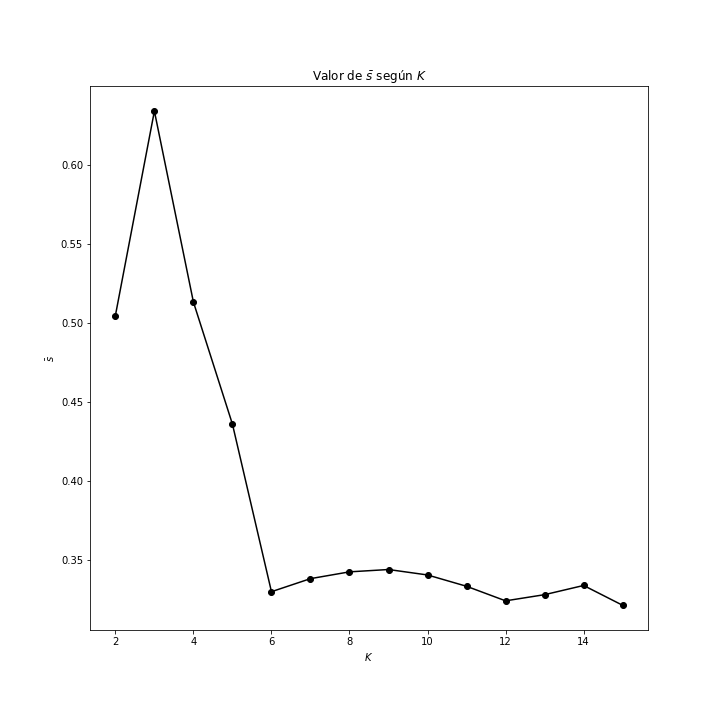
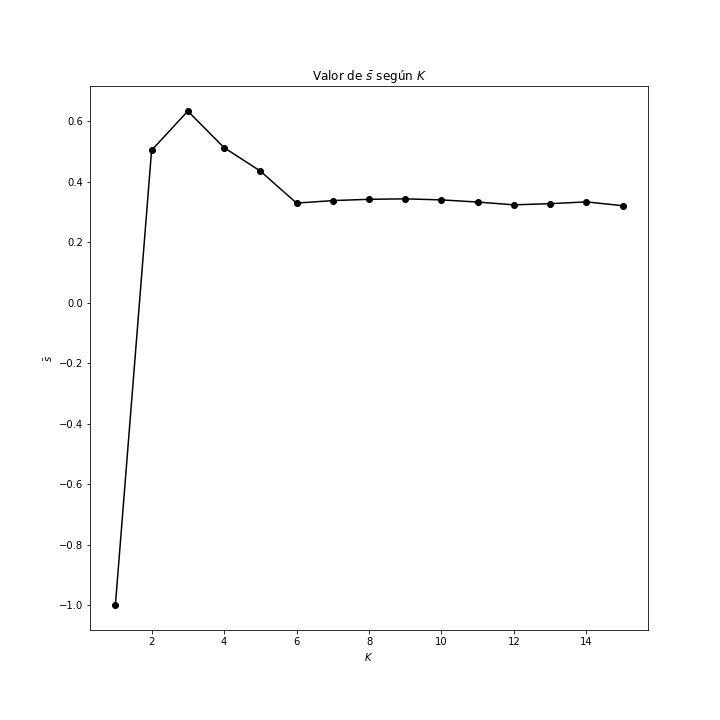
Práctica 3 terminada

diff --git a/Práctica 3/Práctica3.py b/Práctica 3/Práctica3.py
@@ -5,7 +5,7 @@ Práctica 3
 Rubén Ruperto Díaz y Rafael Herrera Troca
 '''
 
-from sklearn.cluster import KMeans
+from sklearn.cluster import KMeans, DBSCAN
 from sklearn import metrics
 from sklearn.datasets import make_blobs
 import os
@@ -24,27 +24,28 @@ os.chdir(ubica)
 # Definimos un sistema X de 1000 elementos de dos estados
 # construido a partir de una muestra aleatoria entorno a unos centros
 centers = [[1, 1], [-1, -1], [1, -1]]
+colors = ['magenta', 'blue', 'lime', 'red', 'silver', 'darkorange', 'gold', 'pink', 'cyan', 'green', 'rosybrown', 'sienna', 'lightcyan', 'yellow', 'deepskyblue']
 X, true_labels = make_blobs(n_samples=1000, centers=centers, cluster_std=0.4, random_state=0)
 
-# Representamos la muestra obtenida
+# Representamos la muestra obtenida con los clusters reales
+colorlabels = [colors[i] for i in true_labels]
 plt.figure(figsize=(10,10))
-plt.scatter(X[:,0], X[:,1], c='red', s=20)
-plt.title("Muestra de puntos generados aleatoriamente para aplicar k-means")
-plt.savefig("KMeansData.png")
+plt.scatter(X[:,0], X[:,1], c=colorlabels, s=20)
+plt.title("Muestra de puntos generados aleatoriamente para aplicar algoritmos de clustering")
+plt.savefig("Data.png")
 plt.show()
 
 # Los clasificamos mediante el algoritmo K-Means probando todos los valores
 # de K entre 1 y 15 y calculamos el coeficiente de Silhouette para cada K
 sil = np.array([])
-for n_clusters in range(2,16):
+for n_clusters in range(1,16):
 
     # Usamos la inicialización aleatoria "random_state=0" 
     kmeans = KMeans(n_clusters=n_clusters, random_state=0).fit(X)
     labels = kmeans.labels_
     kcenters = kmeans.cluster_centers_
-    silhouette = metrics.silhouette_score(X, labels)
+    silhouette = metrics.silhouette_score(X, labels) if len(set(labels)) != 1 else -1
     sil = np.append(sil, silhouette)
-    colors = ['magenta', 'blue', 'lime', 'red', 'silver', 'darkorange', 'gold', 'pink', 'cyan', 'green', 'rosybrown', 'sienna', 'lightcyan', 'yellow', 'deepskyblue']
     colorlabels = [colors[i] for i in labels]
     
     plt.figure(figsize=(10,10))
@@ -53,12 +54,12 @@ for n_clusters in range(2,16):
     plt.title("Clusters con $K=$" + str(n_clusters))
     plt.savefig("KMeans" + str(n_clusters) + ".png")
     plt.show()
-    print("Silhouette Coefficient: %0.3f" % silhouette)
+    print("Coeficiente de Silhouette:", silhouette)
 
 # Representamos en un gráfico el valor del coeficiente de silhouette para
 # cada K
 plt.figure(figsize=(10,10))
-plt.plot(range(2,16), sil, 'ko-')
+plt.plot(range(1,16), sil, 'ko-')
 plt.title(r"Valor de $\bar{s}$ según $K$")
 plt.xlabel("$K$")
 plt.ylabel(r"$\bar{s}$")
@@ -68,3 +69,33 @@ plt.show()
 
 ## Parte 2: DBSCAN
 
+# Los clasificamos mediante el algoritmo DBSCAN con épsilon en el
+# itervalo [0.1, 1] variando de 0.1 en 0.1 y calculamos el coeficiente
+# de Silhouette para cada épsilon
+sil = np.array([])
+X = np.array(X)
+colors.append('black')
+for epsilon in np.arange(0.1, 0.45, 0.05):
+
+    db = DBSCAN(eps=epsilon, min_samples=10, metric='euclidean').fit(X)
+    labels = np.array(db.labels_)
+    silhouette = metrics.silhouette_score(X, labels) if len(set(labels)) != 1 else -1
+    sil = np.append(sil, silhouette)
+    colorlabels = [colors[i] for i in labels]
+    
+    plt.figure(figsize=(10,10))
+    plt.scatter(X[:,0], X[:,1], c=colorlabels, s=20)
+    plt.title(r"Clusters con $\epsilon=$" + str(epsilon))
+    plt.savefig("DBSCAN" + str(epsilon) + ".png")
+    plt.show()
+    print("Coeficiente de Silhouette:", silhouette)
+
+# Representamos en un gráfico el valor del coeficiente de silhouette para
+# cada épsilon
+plt.figure(figsize=(10,10))
+plt.plot(np.arange(0.1, 0.45, 0.05), sil, 'ko-')
+plt.title(r"Valor de $\bar{s}$ según $\epsilon$")
+plt.xlabel(r"$\epsilon$")
+plt.ylabel(r"$\bar{s}$")
+plt.savefig("DBSCANSilh.png")
+plt.show()
